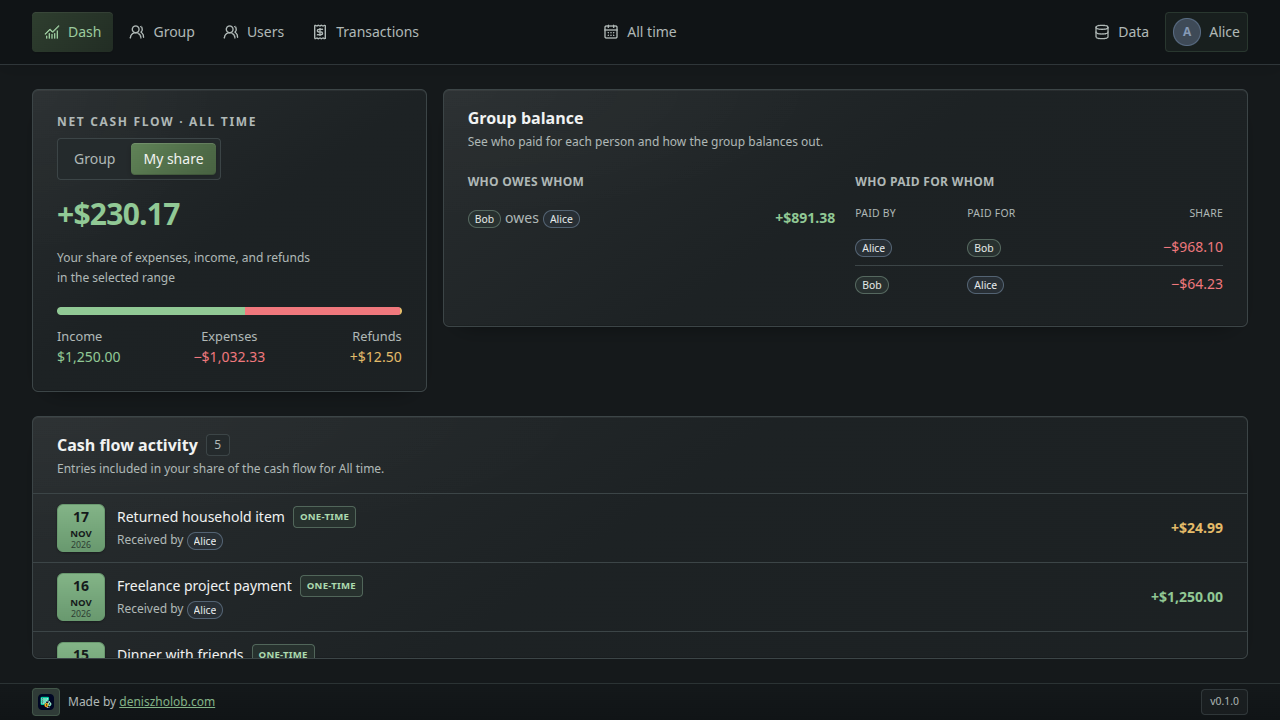
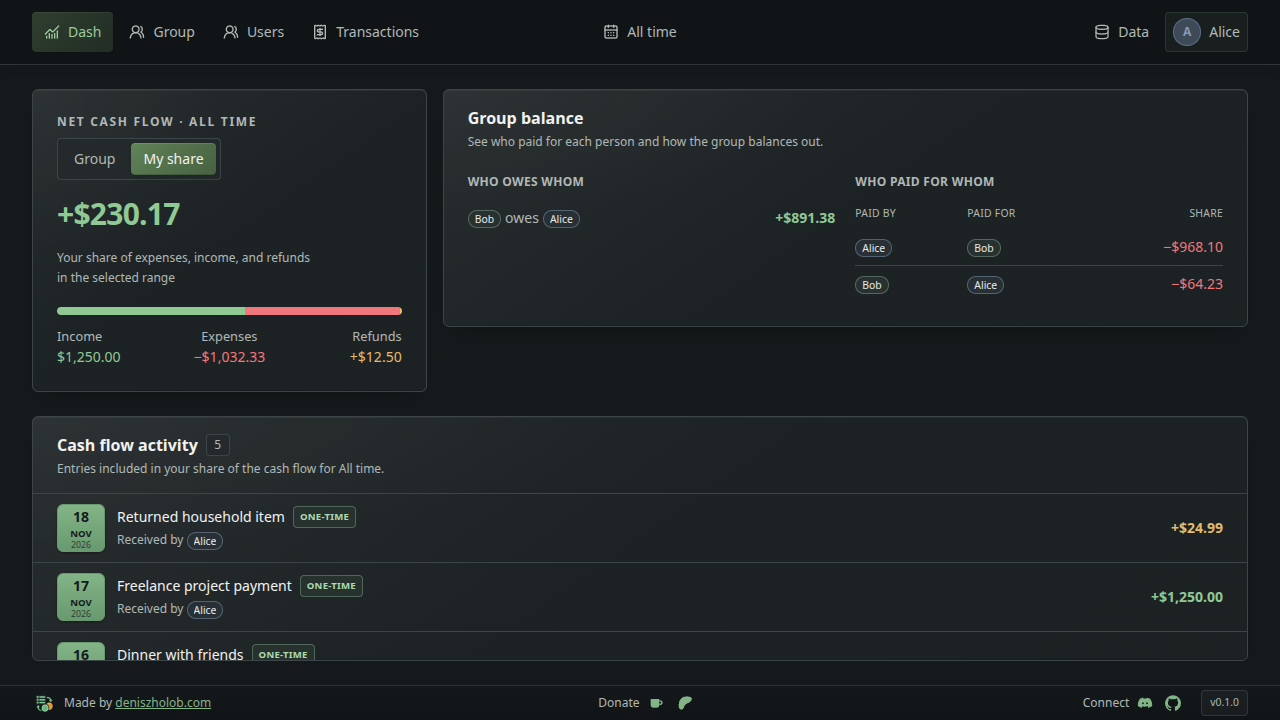
feat(ui): add support and community links to app footer
- Extract the app footer into a reusable component
- Add Ko-fi, Patreon, Discord, and GitHub links
- Update screenshots

diff --git a/src/client/app/layout/footer/footer.component.html b/src/client/app/layout/footer/footer.component.html
@@ -1,0 +1,139 @@
+<footer class="app-footer-shell shrink-0 border-t">
+  <div class="container-fluid gap-0 py-1">
+    <div class="app-footer-inner section-container">
+      <div class="flex items-center gap-2">
+        <span
+          class="app-footer-brand-mark group"
+          tabindex="0"
+          aria-label="Expense Exchange"
+          aria-describedby="app-name-tooltip"
+        >
+          <img
+            class="size-6 object-contain"
+            src="assets/expense-exchange-icon.png"
+            width="16"
+            height="16"
+            alt=""
+            aria-hidden="true"
+          />
+          <span
+            class="rounded-control border-finance-border bg-finance-raised text-finance-text pointer-events-none invisible absolute bottom-full left-0 z-50 mb-2 w-max border px-2.5 py-1.5 text-xs opacity-0 shadow-lg transition-opacity group-hover:visible group-hover:opacity-100 group-focus-visible:visible group-focus-visible:opacity-100"
+            id="app-name-tooltip"
+            role="tooltip"
+            >Expense Exchange</span
+          >
+        </span>
+        <p class="text-finance-muted text-xs">
+          Made by
+          <a class="link" target="_blank" rel="noopener noreferrer" href="https://deniszholob.com/"
+            >deniszholob.com</a
+          >
+        </p>
+      </div>
+
+      <div class="flex items-center gap-1">
+        <span class="text-finance-muted hidden text-xs sm:inline-flex">Donate</span>
+        <a
+          class="link group relative inline-flex size-6 items-center justify-center"
+          href="https://ko-fi.com/deniszholob"
+          target="_blank"
+          rel="noopener noreferrer"
+          aria-label="Donate on Ko-fi"
+          aria-describedby="footer-kofi-tooltip"
+        >
+          <svg class="size-4" viewBox="0 0 24 24" fill="currentColor" aria-hidden="true">
+            <path d="M4 6h13v8.5A4.5 4.5 0 0 1 12.5 19h-4A4.5 4.5 0 0 1 4 14.5V6Z"></path>
+            <path d="M17 8h1.5a3.5 3.5 0 0 1 0 7H17v-2h1.5a1.5 1.5 0 0 0 0-3H17V8Z"></path>
+          </svg>
+          <span
+            class="rounded-control border-finance-border bg-finance-raised text-finance-text pointer-events-none invisible absolute bottom-full left-1/2 z-50 mb-2 w-max -translate-x-1/2 border px-2.5 py-1.5 text-xs opacity-0 shadow-lg transition-opacity group-hover:visible group-hover:opacity-100 group-focus-visible:visible group-focus-visible:opacity-100"
+            id="footer-kofi-tooltip"
+            role="tooltip"
+            >Donate on Ko-fi</span
+          >
+        </a>
+        <a
+          class="link group relative inline-flex size-6 items-center justify-center"
+          href="https://www.patreon.com/deniszholob"
+          target="_blank"
+          rel="noopener noreferrer"
+          aria-label="Support on Patreon"
+          aria-describedby="footer-patreon-tooltip"
+        >
+          <svg class="size-4" viewBox="0 0 24 24" fill="currentColor" aria-hidden="true">
+            <path
+              d="M16.1 2C8.6 2 4 7.4 4 15.1c0 4.6 1.5 6.9 4.3 6.9 3.4 0 3.6-4.8 5.4-7.2 2-2.6 5.8-2.8 8.1-5 1.5-1.4 2.2-3 2.2-4.7C24 4.2 20.6 2 16.1 2Z"
+            ></path>
+          </svg>
+          <span
+            class="rounded-control border-finance-border bg-finance-raised text-finance-text pointer-events-none invisible absolute bottom-full left-1/2 z-50 mb-2 w-max -translate-x-1/2 border px-2.5 py-1.5 text-xs opacity-0 shadow-lg transition-opacity group-hover:visible group-hover:opacity-100 group-focus-visible:visible group-focus-visible:opacity-100"
+            id="footer-patreon-tooltip"
+            role="tooltip"
+            >Support on Patreon</span
+          >
+        </a>
+      </div>
+
+      <div class="flex items-center gap-4">
+        <div class="flex items-center gap-1">
+          <span class="text-finance-muted hidden text-xs sm:inline-flex">Connect</span>
+          <a
+            class="link group relative inline-flex size-6 items-center justify-center"
+            href="https://discord.gg/PkyzXzz"
+            target="_blank"
+            rel="noopener noreferrer"
+            aria-label="Discord Discussion"
+            aria-describedby="footer-discord-tooltip"
+          >
+            <svg class="size-4" viewBox="0 0 24 24" fill="currentColor" aria-hidden="true">
+              <path
+                d="M19.5 5.4a17.8 17.8 0 0 0-4.4-1.4l-.6 1.2a15.8 15.8 0 0 0-5 0l-.6-1.2a17.8 17.8 0 0 0-4.4 1.4C1.7 9.2 1 12.9 1.4 16.6a18.3 18.3 0 0 0 5.5 2.8l1.2-2.1c-.7-.3-1.4-.6-2-1 3.9 1.8 8.1 1.8 12 0-.6.4-1.3.7-2 1l1.2 2.1a18.2 18.2 0 0 0 5.5-2.8c.5-4.3-.7-8-3.3-11.2Z"
+              ></path>
+              <circle cx="9" cy="12.5" r="1.25" fill="var(--color-finance-chrome)"></circle>
+              <circle cx="15" cy="12.5" r="1.25" fill="var(--color-finance-chrome)"></circle>
+            </svg>
+            <span
+              class="rounded-control border-finance-border bg-finance-raised text-finance-text pointer-events-none invisible absolute right-0 bottom-full z-50 mb-2 w-max border px-2.5 py-1.5 text-xs opacity-0 shadow-lg transition-opacity group-hover:visible group-hover:opacity-100 group-focus-visible:visible group-focus-visible:opacity-100"
+              id="footer-discord-tooltip"
+              role="tooltip"
+              >Discord Discussion</span
+            >
+          </a>
+          <a
+            class="link group relative inline-flex size-6 items-center justify-center"
+            href="https://github.com/deniszholob/expense-exchange"
+            target="_blank"
+            rel="noopener noreferrer"
+            aria-label="GitHub Codebase"
+            aria-describedby="footer-github-tooltip"
+          >
+            <svg class="size-4" viewBox="0 0 24 24" fill="currentColor" aria-hidden="true">
+              <path
+                d="M12 .3C5.37.3 0 5.67 0 12.3c0 5.3 3.44 9.8 8.2 11.38.6.12.82-.25.82-.57v-2.04c-3.34.72-4.04-1.61-4.04-1.61-.55-1.39-1.33-1.76-1.33-1.76-1.09-.75.08-.73.08-.73 1.2.08 1.84 1.24 1.84 1.24 1.07 1.83 2.81 1.3 3.49 1 .11-.78.42-1.31.76-1.61-2.66-.3-5.47-1.33-5.47-5.93 0-1.31.47-2.38 1.24-3.22-.12-.3-.54-1.52.12-3.18 0 0 1.01-.32 3.3 1.23a11.5 11.5 0 0 1 6.01 0c2.29-1.55 3.3-1.23 3.3-1.23.65 1.66.24 2.88.12 3.18.77.84 1.23 1.91 1.23 3.22 0 4.61-2.81 5.62-5.48 5.92.43.37.82 1.1.82 2.22v3.29c0 .32.22.69.83.57A12.02 12.02 0 0 0 24 12.3C24 5.67 18.63.3 12 .3Z"
+              ></path>
+            </svg>
+            <span
+              class="rounded-control border-finance-border bg-finance-raised text-finance-text pointer-events-none invisible absolute right-0 bottom-full z-50 mb-2 w-max border px-2.5 py-1.5 text-xs opacity-0 shadow-lg transition-opacity group-hover:visible group-hover:opacity-100 group-focus-visible:visible group-focus-visible:opacity-100"
+              id="footer-github-tooltip"
+              role="tooltip"
+              >GitHub Codebase</span
+            >
+          </a>
+        </div>
+        <span class="app-footer-version group" tabindex="0" aria-describedby="app-build-tooltip">
+          v{{ APP_BUILD_VERSION }}
+          <span
+            class="rounded-control border-finance-border bg-finance-raised text-finance-text pointer-events-none invisible absolute right-0 bottom-full z-50 mb-2 w-max max-w-[calc(100vw-2rem)] border px-3 py-2 text-left text-xs opacity-0 shadow-xl transition-opacity group-hover:visible group-hover:opacity-100 group-focus-visible:visible group-focus-visible:opacity-100"
+            id="app-build-tooltip"
+            role="tooltip"
+          >
+            <span class="block">Version {{ APP_BUILD_VERSION }}</span>
+            <span class="block whitespace-nowrap"
+              >Build date: {{ APP_BUILD_DATE | date: "yyyy-MM-dd'T'HH:mm:ss.SSS'Z'" : 'UTC' }}</span
+            >
+          </span>
+        </span>
+      </div>
+    </div>
+  </div>
+</footer>

diff --git a/src/client/app/app.component.html b/src/client/app/app.component.html
@@ -48,52 +48,5 @@
   <main class="min-h-0 flex-1 overflow-y-auto py-4 sm:py-6">
     <router-outlet></router-outlet>
   </main>
-  <footer class="app-footer-shell shrink-0 border-t">
-    <div class="container-fluid gap-0 py-1">
-      <div class="app-footer-inner section-container">
-        <div class="flex items-center gap-2">
-          <span
-            class="app-footer-brand-mark group"
-            tabindex="0"
-            aria-label="Expense Exchange"
-            aria-describedby="app-name-tooltip"
-          >
-            <img
-              class="size-6 object-contain"
-              src="assets/expense-exchange-icon.png"
-              width="16"
-              height="16"
-              alt=""
-              aria-hidden="true"
-            />
-            <span
-              class="rounded-control border-finance-border bg-finance-raised text-finance-text pointer-events-none invisible absolute bottom-full left-0 z-50 mb-2 w-max border px-2.5 py-1.5 text-xs opacity-0 shadow-lg transition-opacity group-hover:visible group-hover:opacity-100 group-focus-visible:visible group-focus-visible:opacity-100"
-              id="app-name-tooltip"
-              role="tooltip"
-              >Expense Exchange</span
-            >
-          </span>
-          <p class="text-finance-muted text-xs">
-            Made by
-            <a class="link" target="_blank" rel="noopener" href="https://deniszholob.com/"
-              >deniszholob.com</a
-            >
-          </p>
-        </div>
-        <span class="app-footer-version group" tabindex="0" aria-describedby="app-build-tooltip">
-          v{{ APP_BUILD_VERSION }}
-          <span
-            class="rounded-control border-finance-border bg-finance-raised text-finance-text pointer-events-none invisible absolute right-0 bottom-full z-50 mb-2 w-max max-w-[calc(100vw-2rem)] border px-3 py-2 text-left text-xs opacity-0 shadow-xl transition-opacity group-hover:visible group-hover:opacity-100 group-focus-visible:visible group-focus-visible:opacity-100"
-            id="app-build-tooltip"
-            role="tooltip"
-          >
-            <span class="block">Version {{ APP_BUILD_VERSION }}</span>
-            <span class="block whitespace-nowrap"
-              >Build date: {{ APP_BUILD_DATE | date: "yyyy-MM-dd'T'HH:mm:ss.SSS'Z'" : 'UTC' }}</span
-            >
-          </span>
-        </span>
-      </div>
-    </div>
-  </footer>
+  <app-footer></app-footer>
 </div>

diff --git a/src/client/app/app.component.ts b/src/client/app/app.component.ts
@@ -1,13 +1,11 @@
 // #region Imports
-import { CommonModule } from '@angular/common';
 import { ChangeDetectionStrategy, Component, inject } from '@angular/core';
 import { RouterModule } from '@angular/router';
 import { LucideBell, LucideX } from '@lucide/angular';
 
-import { APP_BUILD_DATE, APP_BUILD_VERSION } from './app.build';
 import { PageRoute } from './app.info';
 import { RecurringStateService } from './shared/recurring-state.service';
-import { HeaderComponent } from './layout';
+import { FooterComponent, HeaderComponent } from './layout';
 // #endregion
 
 // #region Implementation
@@ -17,11 +15,15 @@ import { HeaderComponent } from './layout';
   selector: 'app-root',
   templateUrl: './app.component.html',
   host: { class: 'contents' },
-  imports: [CommonModule, HeaderComponent, RouterModule, LucideBell, LucideX],
+  imports: [
+    FooterComponent,
+    HeaderComponent,
+    RouterModule,
+    LucideBell,
+    LucideX,
+  ],
 })
 export class AppComponent {
-  protected readonly APP_BUILD_DATE: number = APP_BUILD_DATE;
-  protected readonly APP_BUILD_VERSION: string = APP_BUILD_VERSION;
   protected readonly PageRoute = PageRoute;
   protected readonly recurringState = inject(RecurringStateService);
 }

diff --git a/src/client/app/layout/footer/footer.component.ts b/src/client/app/layout/footer/footer.component.ts
@@ -1,0 +1,22 @@
+// #region Imports
+import { CommonModule } from '@angular/common';
+import { ChangeDetectionStrategy, Component } from '@angular/core';
+
+import { APP_BUILD_DATE, APP_BUILD_VERSION } from '../../app.build';
+// #endregion
+
+// #region Implementation
+
+@Component({
+  changeDetection: ChangeDetectionStrategy.OnPush,
+  selector: 'app-footer',
+  templateUrl: './footer.component.html',
+  host: { class: 'contents' },
+  imports: [CommonModule],
+})
+export class FooterComponent {
+  protected readonly APP_BUILD_DATE: number = APP_BUILD_DATE;
+  protected readonly APP_BUILD_VERSION: string = APP_BUILD_VERSION;
+}
+
+// #endregion

diff --git a/src/client/app/layout/footer/footer.component.stories.ts b/src/client/app/layout/footer/footer.component.stories.ts
@@ -1,0 +1,22 @@
+// #region Imports
+import type { Meta, StoryObj } from '@storybook/angular-vite';
+
+import { FooterComponent } from './footer.component';
+// #endregion
+
+// #region Stories
+const meta: Meta<FooterComponent> = {
+  component: FooterComponent,
+  parameters: {
+    docs: {
+      description: {
+        component:
+          'Application footer with project, support, and connection links.',
+      },
+    },
+  },
+};
+export default meta;
+
+export const Footer: StoryObj<FooterComponent> = {};
+// #endregion

diff --git a/src/client/app/layout/index.ts b/src/client/app/layout/index.ts
@@ -1,4 +1,5 @@
 export * from './detail-page/detail-page.directive.mock';
 export * from './detail-page/detail-page.directive';
+export * from './footer/footer.component';
 export * from './header/header.component';
 export * from './page-layout/page-layout.component';

diff --git a/src/client/styles/styles.css b/src/client/styles/styles.css
@@ -514,7 +514,7 @@
   }
 
   .app-footer-inner {
-    @apply flex items-center justify-between;
+    @apply flex flex-wrap items-center justify-between gap-x-4 gap-y-1;
   }
 
   .app-footer-brand-mark {
